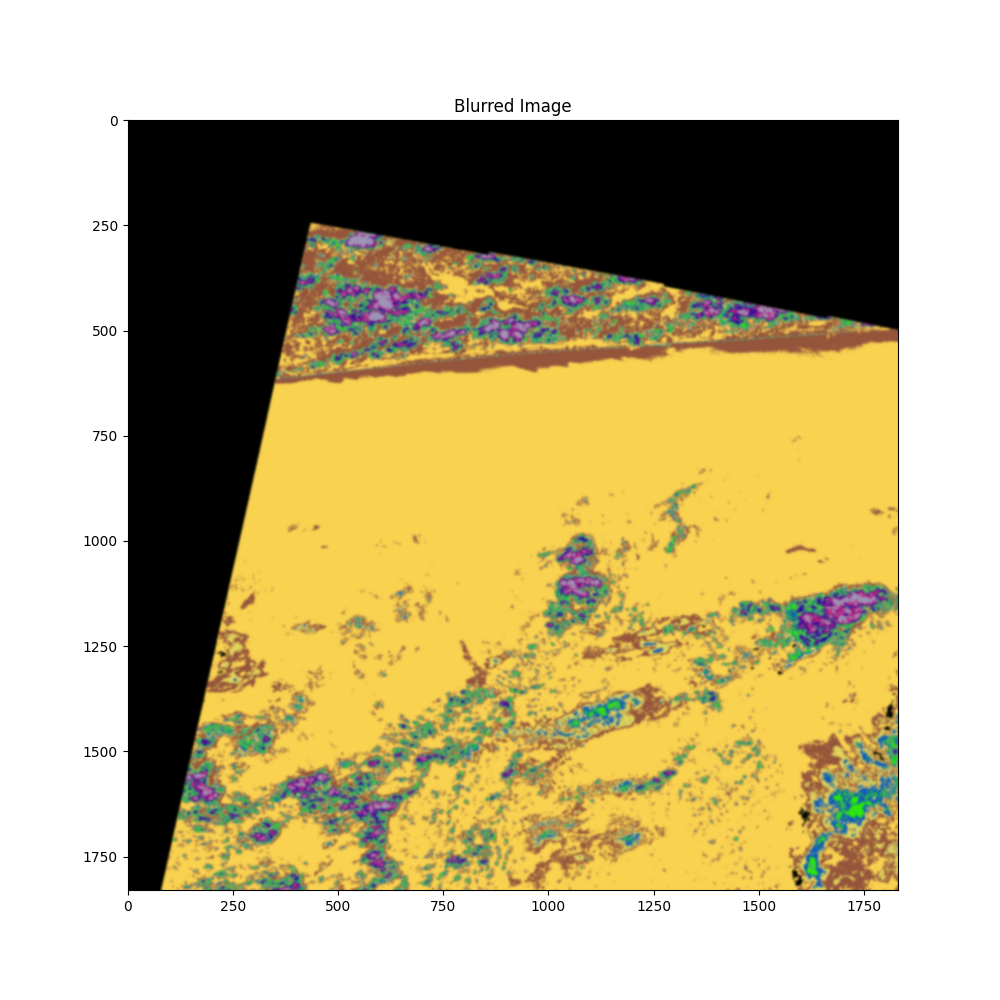
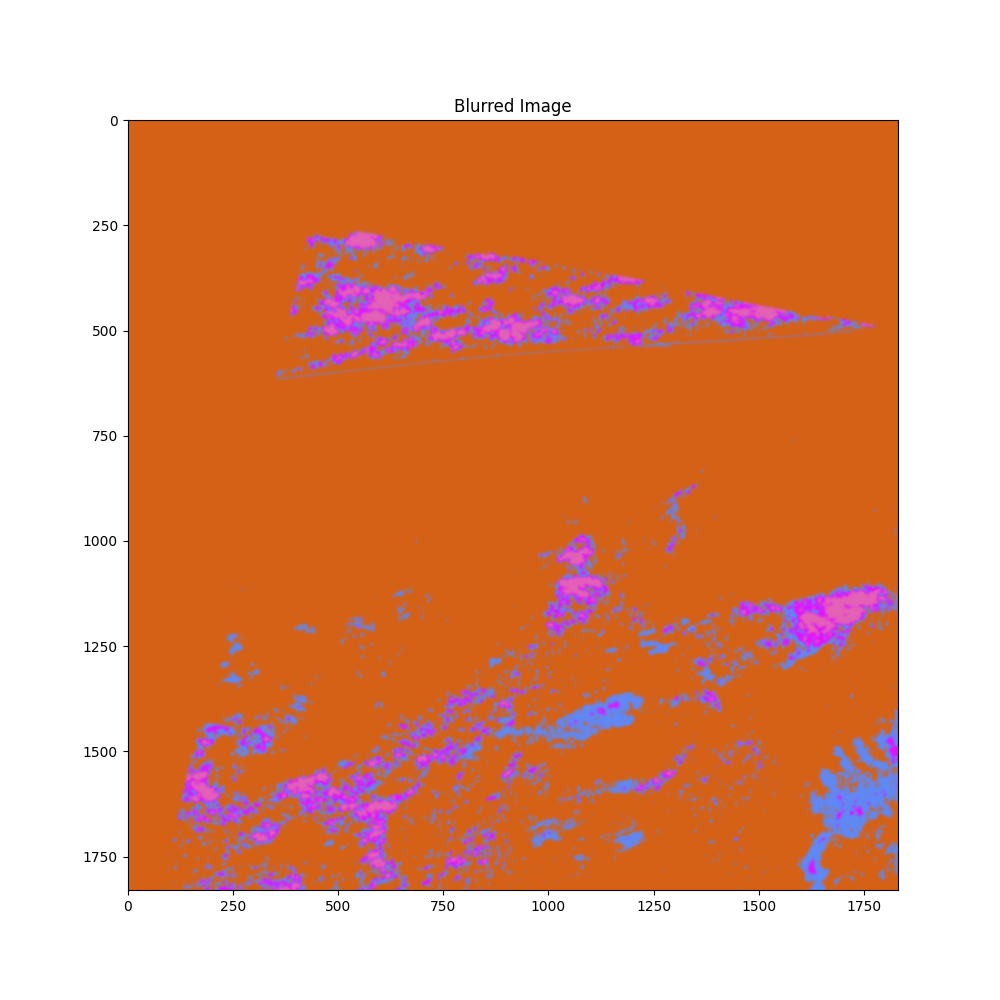
Added edge detection and overlaying edge to original RGB image

diff --git a/coast.py b/coast.py
@@ -8,6 +8,8 @@ import rasterio
 import cv2  # pip install opencv-contrib-python
 from sklearn import preprocessing
 from sklearn.cluster import KMeans
+import matplotlib.image as mpimg
+import matplotlib as mpl
 import pickle
 
 N_OPTICS_BANDS = 4
@@ -37,7 +39,7 @@ i = 0
 for tilePath in tilePaths:
     print("Tile " + tilePath + " contains jp2s:")
     wildcard = glob.glob(tilePath+"/GRANULE/L*/IMG_DATA/R60m/")
-    # wildcard = glob.glob("/Users/leohuang/Programming/wet_garbage/maps/S2B_MSIL2A_20210603T102559_N0300_R108_T30NUL_20210603T134234.SAFE/GRANULE/L2A_T30NUL_A022156_20210603T103702/IMG_DATA/R60m/")
+    # wildcard = glob.glob("/GRANULE/L2A_T30NUL_A022156_20210603T103702/IMG_DATA/R60m/")
     for BandPath in wildcard:  # Should return a single file path to the 10m band directory
         # print(tenMeterBandDirectoryPath)
         for file in os.listdir(BandPath):
@@ -72,26 +74,27 @@ print("IMAGES RE-SHAPED: ", vectorized.shape)
 vectorized = np.float32(vectorized) # convert to 32 bit float for K-Means
 
 #------------------------- Clustering through K-Means
-attempts = 20
-K = 10
+attempts = 10
+K = 4
 ret, label, center = cv2.kmeans(vectorized, K, None, None, attempts, cv2.KMEANS_PP_CENTERS)
 
 center = np.uint8(center)
 res = center[label.flatten()]
 # print("RES: ", res.shape)
 # print(images.reshape((images.shape[1], images.shape[2], 3)).shape)
-result_image1 = res.reshape(images.shape)
-print("RESULT IMAGE: ", result_image1.shape)
+clusterImg = res.reshape(images.shape)
+print("RESULT IMAGE: ", clusterImg.shape)
 
 # Show K-Means image
 clusteredImgFig, clusteredImgAx = plt.subplots(1,1,figsize=(10,10))
-clusteredImgAx.imshow(result_image1,  cmap="tab20_r")
+clusteredImgAx.imshow(clusterImg,  cmap="tab20_r")
 clusteredImgAx.set_title("K-Means Image")
 plt.tight_layout()
 plt.savefig('clusters.png')
 
 #------------------------- Blur Images
-blurredImg = cv2.GaussianBlur(result_image1, (15,15), 0)
+blurredImg = cv2.GaussianBlur(clusterImg, (15,15), 0)
+print("BLURRED IMG SHAPE:", blurredImg.shape)
 
 # Show blur image
 blurredImgFig, blurredImgAx = plt.subplots(1,1,figsize=(10,10))
@@ -100,19 +103,43 @@ blurredImgAx.imshow(blurredImg)
 plt.savefig('blurred.png')
 
 #------------------------- Edge detecting with Canny
-rawEdge = cv2.Canny(blurredImg, 2, 5)
-print("RAWEDGE SHAPE: ", rawEdge.shape)
-print("RAWEDGE: ", rawEdge)
-rawEdge = np.float32(rawEdge)
+edge = cv2.Canny(blurredImg, 2, 5).astype("float") # using float here since np.nan requires floating points
+print("EDGE SHAPE: ", edge.shape)
+print("EDGE: ", edge)
+# Not entirely sure why he wanted to replace 0s with "Not a Number" values
+# edge[edge == 0] = np.nan #np.nan only exists with floating-point data types
+edge = np.uint8(edge) # converting back to 8 bit for viewing (0-255)
+# print("EDGE np.nan: ", edge)
+# print("List all indicies that have nan value: ", np.argwhere(np.isnan(edge)))
+
+
+
+# For when we plot edges on rgb image
+bckgndImgPath = "./maps/S2B_MSIL2A_20210603T102559_N0300_R108_T30NTL_20210603T124634.SAFE/GRANULE/L2A_T30NTL_A022156_20210603T104943/IMG_DATA/R60m/T30NTL_20210603T102559_TCI_60m.jp2"
+bckgndImg = mpimg.imread(bckgndImgPath)
+print("OVERLAYBCKGND IMG SHAPE: ", bckgndImg.shape)
+
+
+# Make edge into 3 channel, bgr or rgb image
+rgb = cv2.cvtColor(edge, cv2.COLOR_GRAY2RGB) # RGB for matplotlib, BGR for imshow()
+# Dilate the lines so we can see them clearer on the overlay
+kernel = cv2.getStructuringElement(cv2.MORPH_RECT, (3,3))
+thicBoiEdgeRGB = cv2.dilate(rgb, kernel, iterations=1)
+# Now all edges are white (255,255,255). to make it red, multiply with another array:
+thicBoiEdgeRGB *= np.array((1,0,0),np.uint8) # Leave R = 1, G, B = 0
+# Overlay
+overlayedImg = np.bitwise_or(bckgndImg, thicBoiEdgeRGB)
+
+
 
 # Show edge images
-rawEdgeImf, rawEdgeImgax = plt.subplots(1,1,figsize=(10,10))
+rawEdgeImg, (rawEdgeImgax, overlayedImgax) = plt.subplots(1, 2, figsize=(14,14))
 rawEdgeImgax.set_title("Raw Edge Img")
-rawEdgeImgax.imshow(rawEdge, cmap = 'Set3_r')
-plt.savefig('rawedge.png')
-
-
-
+rawEdgeImgax.imshow(edge, cmap="binary")
+overlayedImgax.set_title("Overlayed Edge Img")
+overlayedImgax.imshow(overlayedImg, cmap='Set3_r')
+plt.savefig('rawedge_and_overlay')
+# rawEdgeImgax.imshow(rawEdge, cmap=mpl.cm.jet_r, interpolation='nearest')
 
 
 plt.show()
